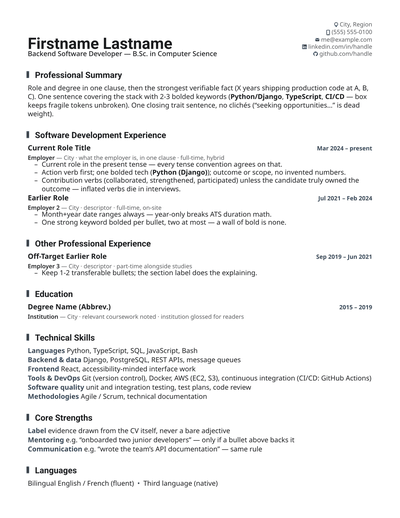
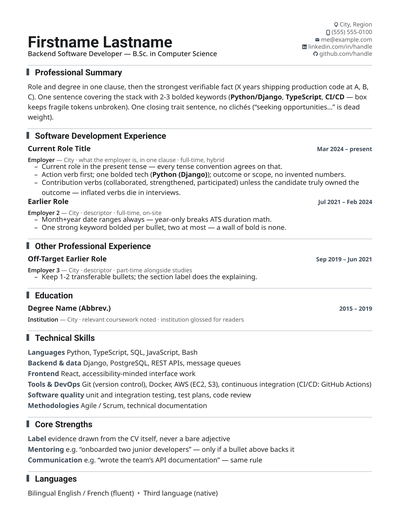
Give keyline-corporate the rule it is named for; make every mark MIT
`keyline-corporate` promised "accent keylines, ruled rows" and had no
horizontal rule at all: its only keyline runs down the LEFT of the title,
which marks the heading but is invisible to a horizontal boundary scan.
Empty space was doing the whole separating, and `resume-pair-b` failed
the gate at 5.82x the median. A `soft` rule across the boundary, with
the gap cut and handed back to the body (leading 0.540 -> 0.756em), puts
the pair at 2.93x and 3.25x with the fill still at 96%. Note the rule
goes in a `block(above: 0pt)`: as a bare `#line` it picks up paragraph
spacing on both sides and pushes the page to two.

`RULE_FLOOR` drops 0.25 -> 0.08. The 25% floor was justified on the
clusters being an order of magnitude apart, and it was wrong: it FAILed
`margin-index`, whose accent rule is real ink but lives in a 2.5cm
margin column and spans 11.5%. Text runs top out near 2.8%, so 8% has
room on both sides. A device does not have to span the measure — it has
to be longer than anything text can produce.

Brand marks move from Simple Icons (CC0) to Bootstrap Icons (MIT), so
every inlined path now comes under one licence. The licence was not the
reason — CC0 imposes nothing — but Simple Icons withdrew the LinkedIn
mark under LinkedIn's brand guidelines, freezing that path at tag 13.19.0
where `--update` can never reach it.

`harvest_icons.py` gains the guard that near-miss needed: a stroke icon
is path-only too, and `pmark` FILLS the path, so harvesting
[…]

diff --git a/scripts/measure_fill.py b/scripts/measure_fill.py
@@ -38,7 +38,15 @@ def measure(path):
     return f"ink from {lo / h * 100:.0f}% to {hi / h * 100:.0f}%"
 
 
-RULE_FLOOR = 0.25   # a dark run this wide (share of page width) is a DEVICE
+# A dark run this wide (share of page width) is a DEVICE. 0.25 was the first
+# guess and it produced a FALSE FAIL on `margin-index`, whose accent rule is
+# real but lives in a 2.5cm margin column: measured at 150 ppi it spans 11.5%,
+# and no text row on that page comes close. The corpus separates cleanly —
+# text tops out near 2.8% (`humanist-quiet`, genuinely device-less), a short
+# margin rule lands at 11.5%, a full-measure rule at 35.7% and up. 0.08 sits
+# between the two clusters with room on both sides. Raising it back will fail
+# any family whose device is deliberately shorter than the text column.
+RULE_FLOOR = 0.08
 RULE_CONTRAST = 20  # …and "dark" for a DEVICE means this much below the paper
 
 

diff --git a/scripts/harvest_icons.py b/scripts/harvest_icons.py
@@ -109,6 +109,13 @@ def one_path(body):
     tags = set(re.findall(r"<(\w+)", body))
     if tags - {"path"}:
         return None, f"body is not path-only ({', '.join(sorted(tags))})"
+    # A stroke icon is path-only too, but `pmark` FILLS the path: harvesting
+    # tabler:brand-github (one path, fill="none" stroke-width="2") renders a
+    # blob, not a logo. Reject it here rather than leaving it to the eye.
+    if 'fill="none"' in body or re.search(r'\bstroke="(?!none)', body):
+        return None, ("body is stroke-based, not fill-based — pmark fills the "
+                      "path, so a stroke icon renders as a solid blob; use the "
+                      "set's filled variant (ph:*-fill, bi:*-fill, tabler *-filled)")
     ds = re.findall(r'\bd="([^"]+)"', body)
     return ("".join(ds), None) if ds else (None, "no path data")
 

diff --git a/references/design.md b/references/design.md
@@ -74,14 +74,21 @@ tuning it, and 3.00 is where it landed.
 
 **The gate now measures the ink, not only the white (added 2026-09-13).**
 `measure_fill.bands()` reports boundary DEVICES alongside white runs: a row
-whose longest *unbroken* dark run spans ≥25% of the page width
+whose longest *unbroken* dark run spans ≥8% of the page width
 (`RULE_FLOOR`), measured against the page's modal luma rather than absolute
 black (`RULE_CONTRAST`, 20 levels) so a pale `soft` hairline and a tinted
 ground both read correctly. Measured at 150 ppi, longest run as a share of
-page width: `humanist-quiet` (device-less by design) 2.8%, `hard-edge` (short
-accent rule) 35.7%, `swiss-grid` (full-measure hairline) 86.0%, `color-band`
-(bleed bar) 100%. The floor sits in an order-of-magnitude gap, so it is not a
-tuned number.
+page width: `humanist-quiet` (device-less by design) 2.8%, `margin-index`
+(accent rule inside a 2.5cm margin column) 11.5%, `hard-edge` (short accent
+rule) 35.7%, `swiss-grid` (full-measure hairline) 86.0%, `color-band` (bleed
+bar) 100%.
+
+The floor was 25% at first, on the reasoning that the clusters were an order
+of magnitude apart and the number therefore needed no tuning. That was wrong:
+it FAILed `margin-index`, whose rule is real but deliberately shorter than
+the text column. A device does not have to span the measure — it has to be
+unmistakably longer than any run text can produce, and text tops out near
+2.8%. Hence 8%, with room on both sides.
 
 Two measurement traps, both walked into while building this, both worth not
 repeating: (1) the *fraction* of dark pixels in a row cannot separate a filled
@@ -252,8 +259,9 @@ break at arm's length. Two requirements, both verified per family:
   A family whose heading sits *beside* its body has no heading→body gap at
   all and the ratio does not apply: `margin-index` puts the title in a 2.5cm
   margin column, so its whole boundary budget is the 30pt section gap plus
-  the short accent rule above the title, and the white-run ratio below is the
-  only measurement that governs it (7.40, the highest of the roster).
+  the short accent rule above the title (11.5% of page width — real ink, and
+  the reason `RULE_FLOOR` sits at 8%), with the white-run ratio below
+  governing the rest (7.40, the highest of the roster).
 - **Measured, in the gate**: `scripts/verify.py` scans every rendered PNG
   (`measure_fill.gaps`) and FAILs when the tallest internal white run is
   under **2.0× the median** run, when any run exceeds **5% of page height**,
@@ -263,8 +271,12 @@ break at arm's length. Two requirements, both verified per family:
   90 ppi (max run / median run, max run as % of page height): `color-band`
   2.33 / 1.4%, `swiss-grid` 3.40 / 1.7%, `editorial-serif` 3.40 / 1.7%,
   `bold-display` 3.60 / 1.8%, `quiet-luxury` 3.85 / 2.5%, `mono-technical`
-  4.00 / 2.4%, `humanist-quiet` 6.60 / 3.3%, `keyline-corporate` 7.25 / 2.9%,
-  `margin-index` 7.40 / 3.7%. If the gap you want would overflow the page or
+  4.00 / 2.4%, `humanist-quiet` 6.60 / 3.3%, `margin-index` 7.40 / 3.7%.
+  `keyline-corporate` measured 7.25 here until it was given the rule it was
+  named for: its vertical keyline marks the title but is invisible to a
+  horizontal boundary scan, so empty space was doing the whole separating.
+  A `soft` rule across the boundary plus the reclaimed gap (leading 0.540 →
+  0.756em) put it at 2.93. If the gap you want would overflow the page or
   open a canyon, take the space from the *intra*-section rhythm instead of
   adding to the gap — raising the contrast between the two is what makes the
   boundary read, not the absolute size of the gap.

diff --git a/README.md b/README.md
@@ -195,15 +195,21 @@ this skill's culture is "measured, not eyeballed".
 
 MIT — see [LICENSE](LICENSE).
 
-**Third-party.** The brand marks (LinkedIn, GitHub) in `templates/lib.typ` are
-inlined path data from [Simple Icons](https://github.com/simple-icons/simple-icons)
-— **CC0 1.0**, no attribution required (the LinkedIn path is from tag 13.19.0,
-the last one Simple Icons published before withdrawing the mark under
-LinkedIn's own brand guidelines — a policy change, not a licence one). The
-generic marks (email, phone, pin, website) are inlined path data from
-[Tabler Icons](https://github.com/tabler/tabler-icons)' filled set —
-**MIT**. Only path data is used in both cases; no font file, CSS or
-JavaScript is redistributed. No font binaries ship with this skill either: the
+**Third-party.** Every inlined mark in `templates/lib.typ` is path data under
+**MIT**: the brand marks (LinkedIn, GitHub) from
+[Bootstrap Icons](https://github.com/twbs/icons), the generic marks (email,
+phone, pin, website) from [Tabler Icons](https://github.com/tabler/tabler-icons)'
+filled set. Only path data is used; no font file, CSS or JavaScript is
+redistributed. Refresh any of them with
+`scripts/harvest_icons.py <set> <var>=<icon> --update templates/lib.typ`.
+
+The brand marks were previously Simple Icons (CC0). Bootstrap Icons was
+preferred not for the licence — CC0 is more permissive than MIT and imposes
+nothing — but because Simple Icons withdrew the LinkedIn mark under LinkedIn's
+own brand guidelines, freezing that path at tag 13.19.0 where no refresh can
+reach it. Note that a licence covers the drawing, never the trademark: using
+either logo on a CV is nominative use, which is a separate question from
+redistributing the path. No font binaries ship with this skill either: the
 pools name faces packaged by common Linux distributions or available from
 Google Fonts under the SIL Open Font License 1.1 — see
 [`references/fonts.md`](references/fonts.md) for provenance and installation.
